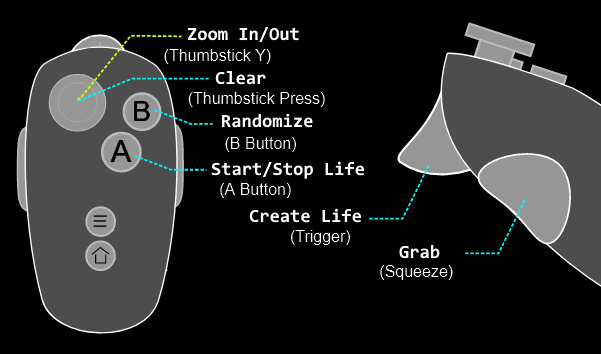
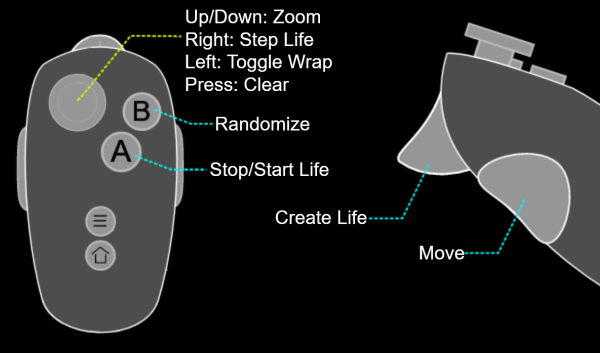
more functions

diff --git a/index.js b/index.js
@@ -269,17 +269,31 @@ document.body.append(stats.dom);
 
 let gamepads = [];
 let lastUpdate = 0;
-let lastTriggerPress = 0;
 const vec = new Vector3();
 function loop(time) {
   for (const gamepad of gamepads) {
-    const stickVal = gamepad.axes[3];
-    if (stickVal > 0.5) {
+    const yVal = gamepad.axes[3];
+    if (yVal > 0.7) {
       gridGroup.scale.multiplyScalar(1 - 0.05);
-    } else if (stickVal < -0.5) {
+    } else if (yVal < -0.7) {
       gridGroup.scale.multiplyScalar(1 + 0.05);
     }
     pointMaterial.uniforms.scale.value = gridGroup.scale.x * 6;
+
+    const xVal = gamepad.axes[2];
+    if (xVal > 0.7) {
+      if (gamepad.xPlusReleased && !config.enabled) updateGrid();
+      gamepad.xPlusReleased = false;
+    } else {
+      gamepad.xPlusReleased = true;
+    }
+
+    if (xVal < -0.7) {
+      if (gamepad.xMinusReleased) config.wrap = !config.wrap;
+      gamepad.xMinusReleased = false;
+    } else {
+      gamepad.xMinusReleased = true;
+    }
 
     if (gamepad.buttons[3].pressed) {
       if (gamepad.buttons[3].released) clear();
@@ -303,8 +317,7 @@ function loop(time) {
     }
 
     if (gamepad.buttons[0].pressed) {
-      if (Date.now() - lastTriggerPress > 150) {
-        lastTriggerPress = Date.now();
+      if (gamepad.buttons[0].released) {
         vec.copy(gamepad.controller.position);
         gridGroup.worldToLocal(vec);
         vec.addScalar(gridSize / 2 - 0.5);
@@ -314,7 +327,10 @@ function loop(time) {
           const index = x + y * gridSize + z * gridSize ** 2;
           pointGeometry.attributes.size.array[index] = grid[x][y][z] ? 1 : minSpriteSize;
         }
-      }
+        gamepad.buttons[0].released = false;
+      } 
+    } else {
+      gamepad.buttons[0].released = true;
     }
   }
   if (config.enabled && time - lastUpdate > config.delay) {
@@ -322,6 +338,7 @@ function loop(time) {
     lastUpdate = time;
   }
   decaySprites();
+  helper.material.color.setHex(config.enabled ? (config.wrap ? 0xead800 : 0xff6500) : (config.wrap ? 0x9b8f00 : 0x923a00));
   renderer.render(scene, camera);
   stats.update();
 }
